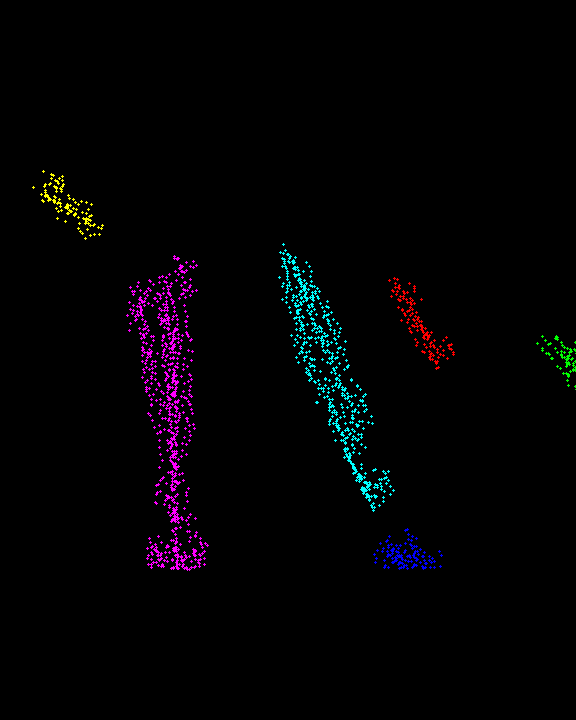
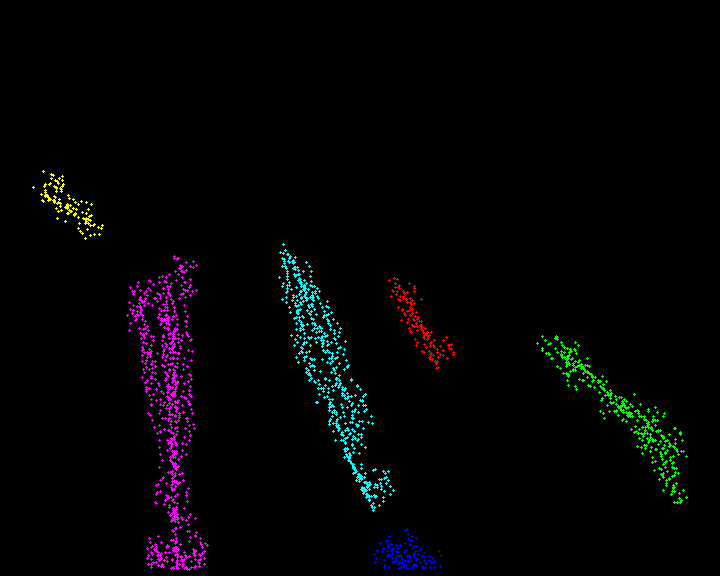
Update result pictures

diff --git a/Trajectory/point_cloud.py b/Trajectory/point_cloud.py
@@ -31,8 +31,8 @@ cv_types = ['spherical', 'tied', 'diag', 'full']
 cv_type = cv_types[1]
 
 video_name = name_list[video_index]
-height = 720
-width = 576
+height = 576
+width = 720
 
 base_json = r'E:\MIT\Processed Data'
 base_point = os.path.join('./PointCloud', video_name)
